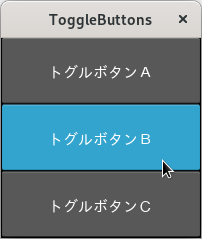
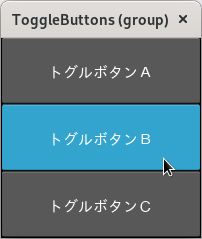
update

Changed region(s): [[0.0594, 0.0586, 0.8317, 0.1464], [0.802, 0.6444, 0.8614, 0.7615]]

diff --git a/kivy_togglebutton_group_1.py b/kivy_togglebutton_group_1.py
@@ -15,7 +15,7 @@ class KivyToggleButton(BoxLayout):
 
 class ExampleApp(App):
     def build(self):
-        self.title = 'ToggleButtons'
+        self.title = 'ToggleButtons (group)'
         return KivyToggleButton()
 
 
